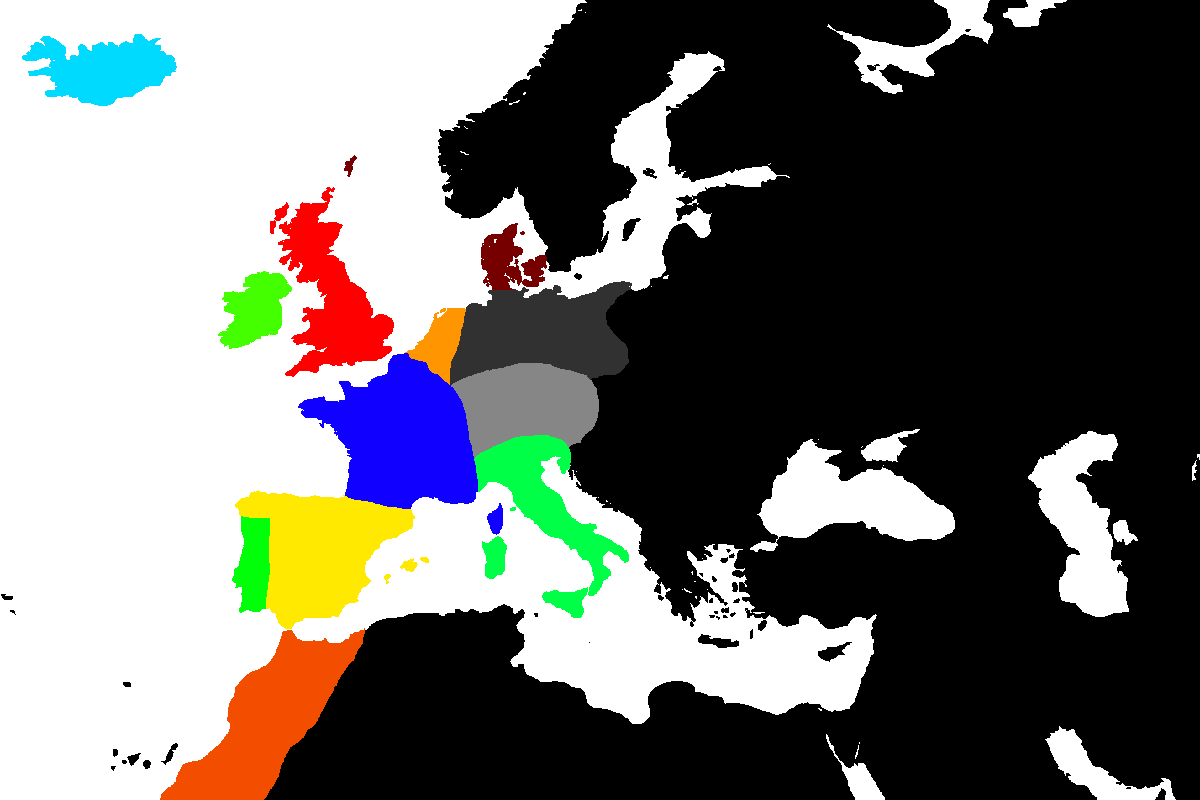
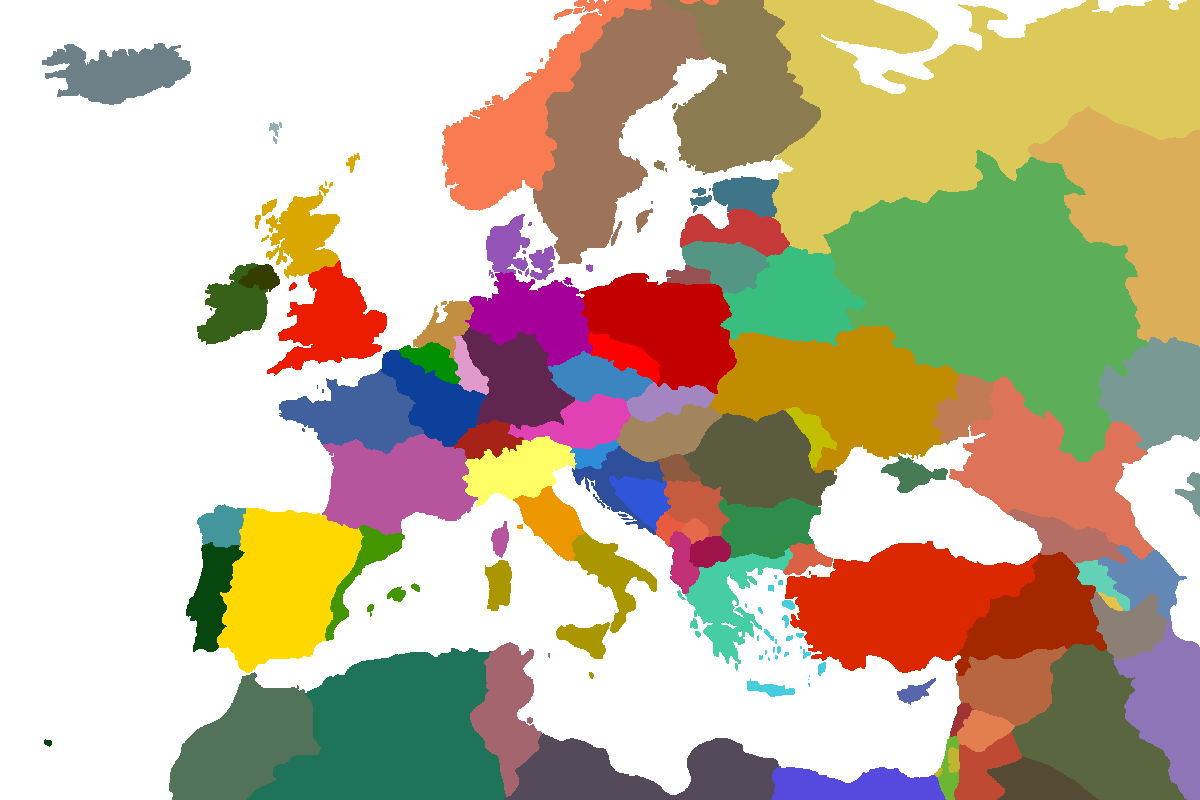
2.1.0

diff --git a/readme.md b/readme.md
@@ -1,0 +1,14 @@
+# Qonquest 2
+A turn-based map strategy game. Sequel to my earlier terminal game Qonquest (this time with graphics!)
+## Changelog
+### 2.0.1
+* Fixed a few small bugs
+### 2.1
+* Added the new map by PL\_ADI
+* Added text outline for extra visibility
+* Moved the "close" button in the battle window to the top so you can actually close the windows
+* Fixed a few bugs with reloading the game after a restart
+* HOPEFULLY fixed a bug on windows where you wouldn't be able to deploy or move troops
+## Credits
+TheZipCreator (me) - programming the game
+PL\_ADI (pollen#8033 on discord) - making the map
